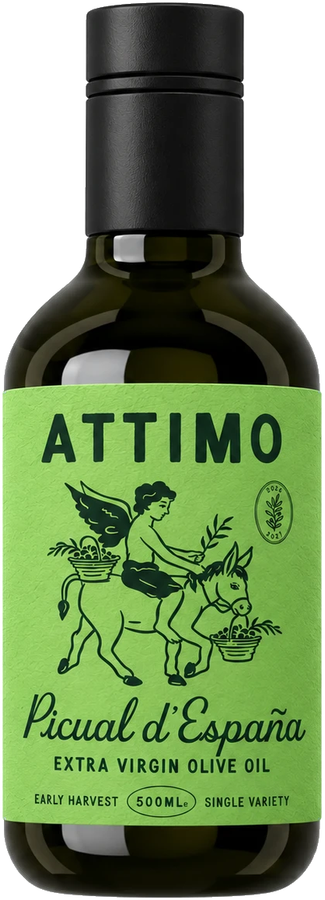
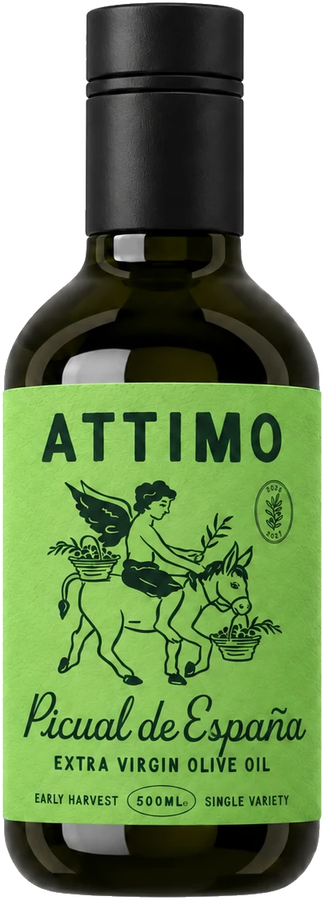
Picual 26/27 render: corrected image and reference

diff --git a/src/components/harvest/useHarvestSection.ts b/src/components/harvest/useHarvestSection.ts
@@ -4,10 +4,7 @@ import { HARVEST_STATUS } from "@/lib/harvestStatus";
 import { IT, ES } from "country-flag-icons/react/3x2";
 import coratina from "@/assets/bottle-2627-coratina.png?url";
 import peranzana from "@/assets/bottle-2627-peranzana.png?url";
-// PLACEHOLDER: this render misspells the label ("Picual d'España" instead of
-// "Picual de España"). Replace the file with the corrected render before this
-// branch is merged. The file name carries the warning so it cannot slip by.
-import picual from "@/assets/bottle-2627-picual-PLACEHOLDER-label-misspelt.png?url";
+import picual from "@/assets/bottle-2627-picual.png?url";
 
 // Shared data for every look of the homepage next-harvest section: copy from
 // the dictionary, production status and polyphenols from harvestStatus.ts.
